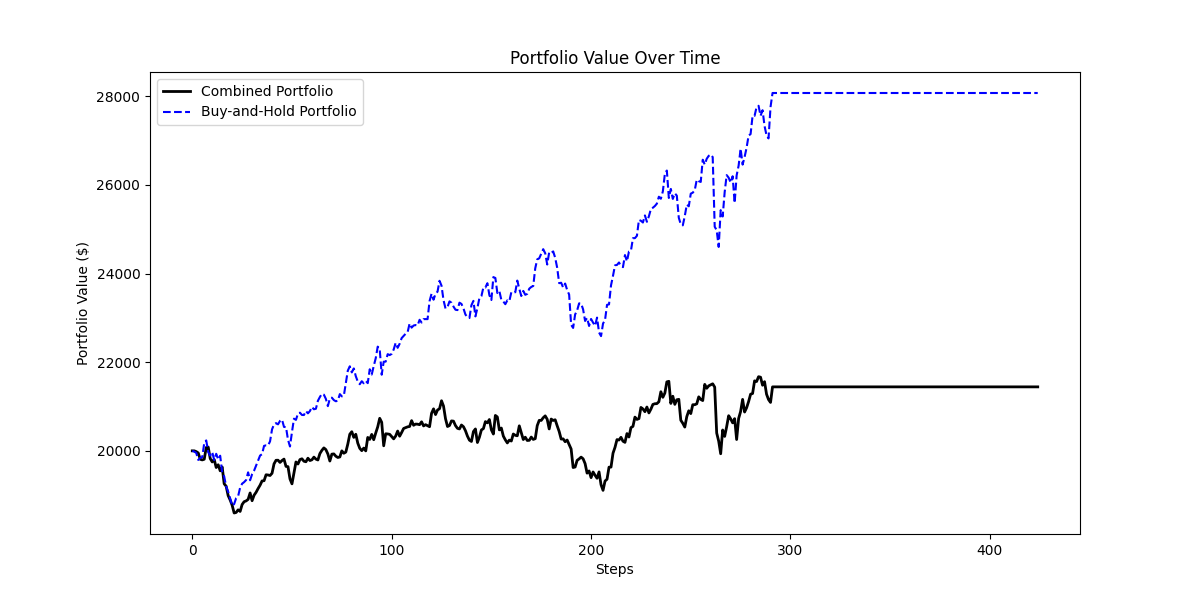
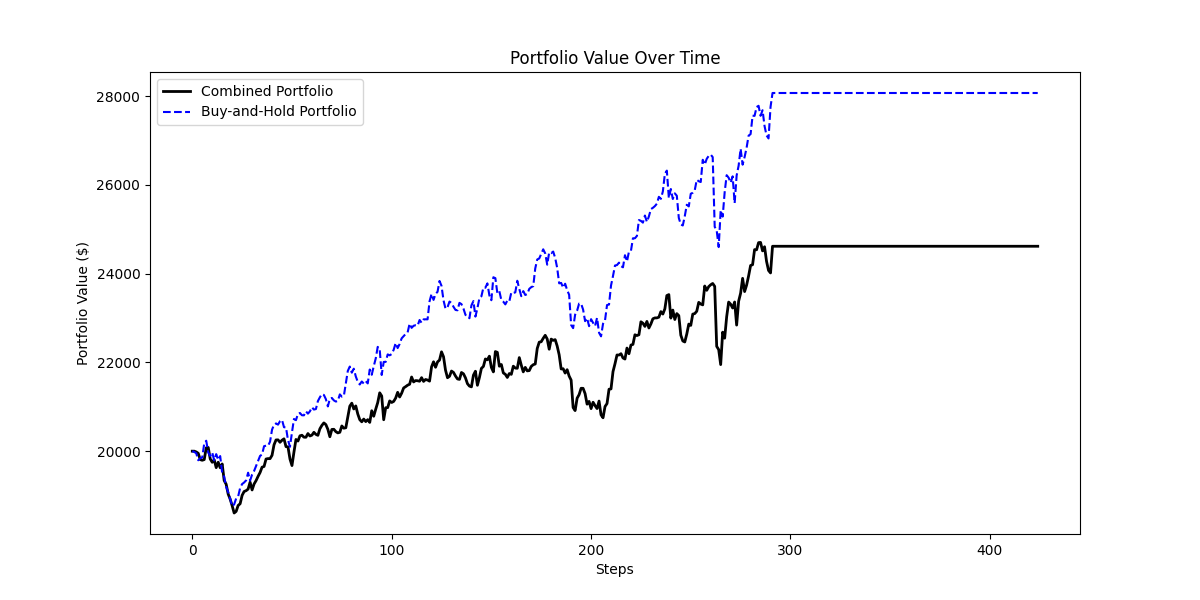
UPdate

diff --git a/src/main.py b/src/main.py
@@ -96,7 +96,7 @@ POSITION_SIZE = 1.0  # Fixierte Positionsgröße auf 1
 BACKTEST_PERIOD = 60
 STOP_LOSS = 0.2  # Increased stop-loss threshold
 TAKE_PROFIT = 0.2  # Increased take-profit threshold
-MIN_HOLDING_PERIOD = 5  # Minimum holding period in steps
+MIN_HOLDING_PERIOD = 10000000  # Minimum holding period in steps
 DEBUG_STEPS = False  # Debug switch for step method
 
 # Define fixed stop-loss and take-profit thresholds
